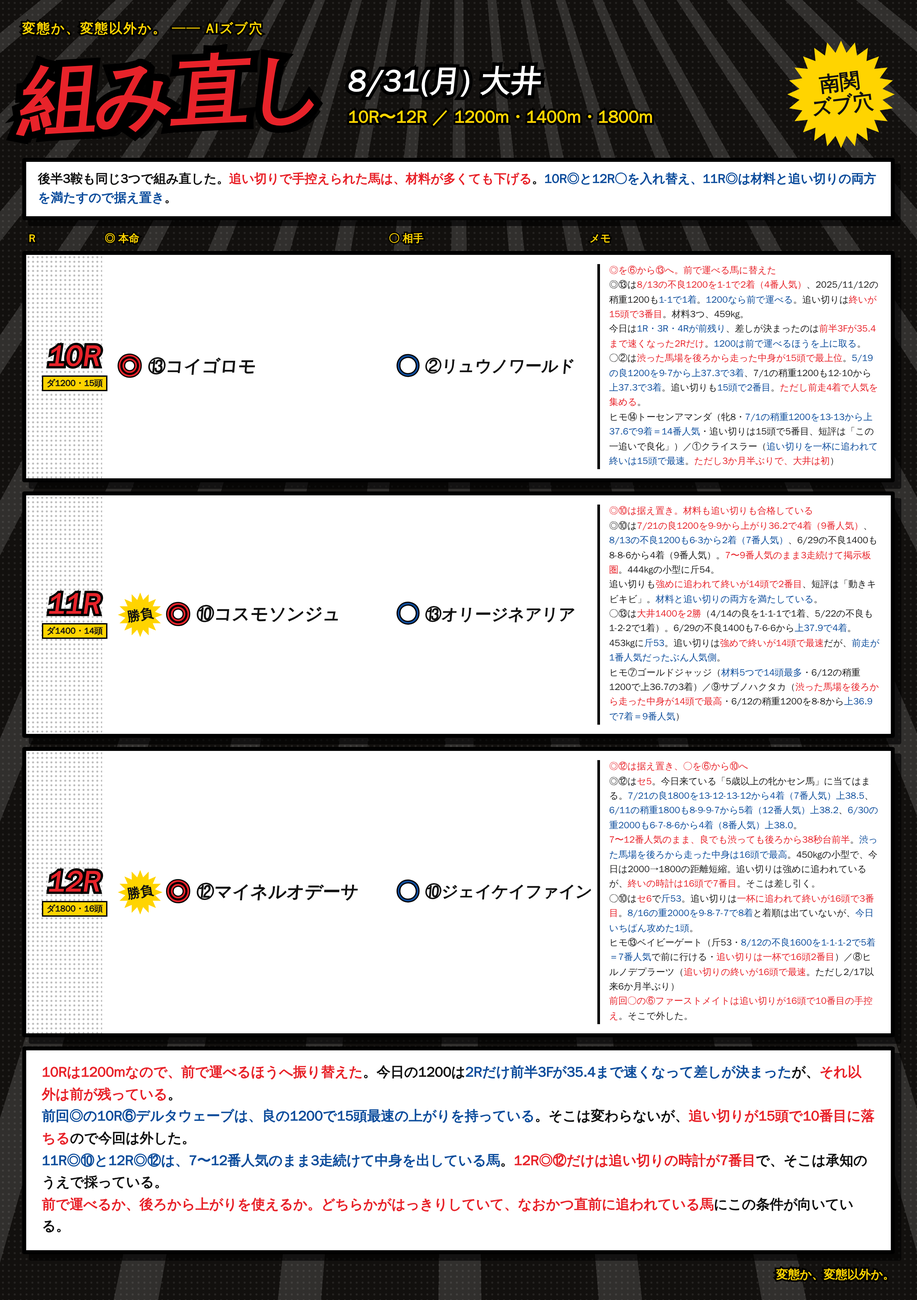
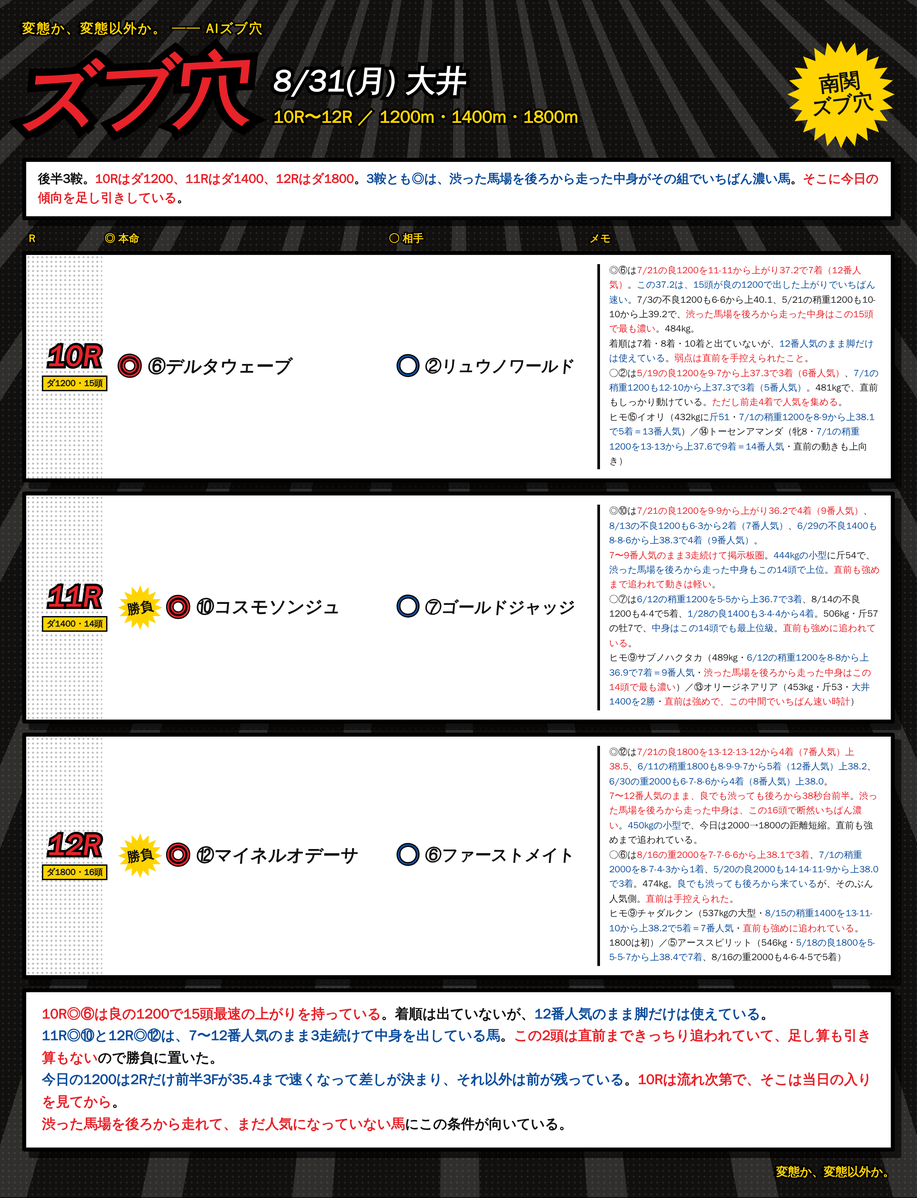
大井 8/31 6R〜12R の印をベース（下地＋ファクター）基準に戻す
今日の前半傾向に寄せて◎を入れ替えていたが、ベースを崩していたため元に戻した。
下地とファクターで最上位の馬を軸に据え、今日の傾向は相手の厚みの調整にのみ使用。

- 7R ◎⑦・9R ◎⑨・10R ◎⑥・12R ◎⑫ を軸に復帰
- ◎の直前が手控えられている鞍は、ヒモに追われている馬を入れて厚みを調整
- 勝負印は11R・12Rの2つまでに削減
- カードから選定ロジックの記述（ファクター名・スコア・順位表現）を全て削除
- 「組み直し」等の前版を示す表記も削除
- 表記ルールを README に追記

Claude-Session: https://claude.ai/code/session_01RoHscZkr96FNaxQWvUqgEw

diff --git a/notes/live/2026-08-31/oi_6_9_v2.html b/notes/live/2026-08-31/oi_6_9_v2.html
@@ -78,37 +78,37 @@
 </style></head>
 <body><div class="card"><div class="lines"></div><div class="tone"></div><div class="inner">
 <div class="kicker">変態か、変態以外か。 ── AIズブ穴</div>
-<div class="head"><div class="gekiga">組み直し</div><div class="dateblk"><div class="d1">8/31(月) 大井</div><div class="d2">6R〜9R ／ 前半の傾向 × 追い切りで組み直し</div></div><div class="burst"><span>南関<br>ズブ穴</span></div></div>
-<div class="lead"><span class="r">前半で3つはっきりしたので、6R以降を組み直した。</span><br><span class="b">① ペース通りに決まっている。</span>1R（前半3F 39.4）と3R・4Rは<span class="r">前残り</span>、<span class="r">2Rだけ前半3Fが35.4まで速くなって4角9〜10番手が差し切った</span>。馬場が前に寄っているのではなく、素直に流れ次第。<br><span class="b">② 古馬戦で来たのは5歳以上の牝かセン馬だけ。</span><span class="r">牡馬は9頭出て0、4歳は11頭出て0</span>。馬体重も<span class="b">3着以内は全部±5kg以内</span>。<br><span class="b">③ 追い切りで1つだけ効いた。</span><span class="r">最終追い切りを「強め以上」で追われ、その終いの時計がレースで上位3番以内</span>。<span class="b">該当は1R⑬と2R⑦の2頭だけで、2頭とも1着</span>だった。</div>
+<div class="head"><div class="gekiga">ズブ穴</div><div class="dateblk"><div class="d1">8/31(月) 大井</div><div class="d2">6R〜9R ／ 1200m・1600m・1400m・2000m</div></div><div class="burst"><span>南関<br>ズブ穴</span></div></div>
+<div class="lead">組み方は<span class="r">いつも通り</span>。<span class="b">渋った馬場を後ろから走った中身と、買える形がいくつ重なっているか</span>で並べて、<span class="r">そこに今日わかったことを足し引きする</span>。<br><span class="b">今日の決まり方はペース通り</span>。1R（前半3F 39.4）と3R・4Rは<span class="r">前残り</span>、<span class="r">2Rだけ前半3Fが35.4まで速くなって4角9〜10番手が差し切った</span>。<span class="b">馬場が前に寄っているわけではない</span>。<br><span class="r">古馬戦で3着以内に来た6頭は、全部5歳以上の牝馬かセン馬</span>で、<span class="b">馬体重も全部±5kg以内</span>だった。ここは足し算に使う。</div>
 <div class="cols"><div class="cR">R</div><div class="cH">◎ 本命</div><div class="cA">○ 相手</div><div class="cM">メモ</div></div>
 
   <div class="row"><div class="corner"></div>
     <div class="rN"><div class="n">6R</div><div class="d">ダ1200・14頭</div></div>
-    <div class="hm"><div class="sb"><span>勝負</span></div><span class="mk">◎</span><span class="nm">⑨パロットフィッシュ</span></div>
-    <div class="at"><span class="mk2">○</span><span class="nm2">③スカイハピネス</span></div>
-    <div class="memo"><b class='r'>買う材料 3つ＝14頭で最多タイ ／ 追い切りも合格</b><br>◎⑨は<b class='r'>最終追い切りを強めに追われて、終いの時計は14頭で3番目</b>。材料の数と追い切りの<b>両方を満たしたのはこの馬だけ</b>。<br>6/8の不良1200を9-9から<b>上39.6で5着</b>、7/20の良1400も3-5-6から4着で、<b>前でも後ろでも形が作れる</b>。前走8/12は1600で1-2-8-8の7着。<b class='r'>今日は1600→1200の距離短縮</b>。438kg。<br>○③は<b class='r'>5走のうち3走で1-1の逃げ</b>（7/20の良1200、6/8の不良1200、5/20の良1200）。<b>419kgの小型</b>で、追い切りも<b>強めに追われて14頭で4番目</b>。<b class='r'>今日は1R・3R・4Rが前残り</b>だったので、逃げられる馬を上に置いた。<br>ヒモ⑤チュウオースカイ（<b>追い切りの終いは14頭で最速</b>。ただし5走とも8〜11番手で着順は出ていない）／④ルイーダ（524kgに<b>斤51</b>・<b>渋った馬場を後ろから走った中身が14頭で最上位</b>。<b class='r'>ただし追い切りは11番目で手控えられた</b>）</div>
+    <div class="hm"><span class="mk">◎</span><span class="nm">⑨パロットフィッシュ</span></div>
+    <div class="at"><span class="mk2">○</span><span class="nm2">④ルイーダ</span></div>
+    <div class="memo">◎⑨は<b class='r'>6/8の不良1200を9-9から上39.6で5着</b>、<b>7/20の良1400も3-5-6から4着</b>、5/18の良1400も7-6-6から6着。<b class='r'>前でも後ろでも形が作れる</b>。前走8/12は1600で1-2-8-8の7着。<b>今日は1600→1200の距離短縮</b>で、438kg。<b class='r'>直前も強めまで追われて動きが上向いている</b>。<br>○④は<b class='r'>6/29の不良1200を10-8から上38.9で6着</b>、<b>7/20の良1200も9-10から上39.5で5着</b>。<b class='r'>渋っても良でも、後ろから上位の上がりを続けて使っている</b>。524kgの大型に<b>斤51</b>。前走8/12は15-15の12着で、さすがに後ろすぎた。<br>ヒモ⑬シャルシェ（492kg・<b>8/12の不良1200を11-10から上39.6で4着＝8番人気</b>。これが唯一の1走）／③スカイハピネス（<b>419kgの小型</b>・<b class='r'>5走のうち3走で1-1の逃げ</b>。直前も強めに追われている）</div>
   </div>
 
   <div class="row"><div class="corner"></div>
     <div class="rN"><div class="n">7R</div><div class="d">ダ1600・13頭</div></div>
-    <div class="hm"><span class="mk">◎</span><span class="nm">③ベルベットハンマー</span></div>
-    <div class="at"><span class="mk2">○</span><span class="nm2">⑤ジャスティンロング</span></div>
-    <div class="memo"><b class='r'>◎を⑦から③へ。理由は年齢と追い切り</b><br>◎③は<b class='r'>牝5</b>。今日の古馬戦で来た6頭は<b>全部5歳以上の牝かセン馬</b>で、<b class='r'>4歳は11頭出て1頭も来ていない</b>。<br>中身は<b>4/28の不良1600を7-8-6-6から上39.0で3着（6番人気）</b>、<b>4/13の良1600も9-9-7-7から3着（10番人気）</b>。<b class='r'>良でも渋っても、後ろから6〜10番人気で3着</b>している。追い切りは<b>13頭で5番目</b>と上位で、短評も前向き。<b class='r'>弱点は4か月ぶり</b>。<br>○⑤は<b class='r'>最終追い切りの終いが13頭で最速</b>、しかも強め。<b>8/17の重1600を3-3-2-2で1着</b>。532kgの大型で、<b>前走1着のぶん人気を集める</b>。<br>ヒモ⑦マジェスティルール（<b>422kgの小型</b>・<b class='r'>渋った馬場を後ろから走った中身は13頭で最上位</b>・6〜8番人気で3走続けて後ろから39秒台前半。<b class='r'>ただし牡4歳で、追い切りは8番目</b>。そこを引いてヒモ）／⑧ビーチユーミング（牡6・<b>追い切りの終いは13頭で2番目</b>・7/20の良1600で上39.1）</div>
+    <div class="hm"><span class="mk">◎</span><span class="nm">⑦マジェスティルール</span></div>
+    <div class="at"><span class="mk2">○</span><span class="nm2">③ベルベットハンマー</span></div>
+    <div class="memo">◎⑦は<b class='r'>6/30の重1600を9-9-9-8から上39.2で3着（7番人気）</b>、<b>7/23の良1600を10-9-7-6から上39.5で5着（8番人気）</b>、<b>8/17の重1600も7-7-8-8から上39.8で5着（6番人気）</b>。<br><b class='r'>良でも渋っても、3走続けて後ろから39秒台前半</b>。しかも<b>6〜8番人気のまま</b>で、<b class='r'>422kgの小型</b>。<b>渋った馬場を後ろから走った中身は、この13頭でいちばん濃い</b>。<br><b class='r'>弱点は直前が手控えられたこと</b>。そこは差し引く。<br>○③は<b class='r'>4/28の不良1600を7-8-6-6から上39.0で3着（6番人気）</b>、<b>4/13の良1600も9-9-7-7から3着（10番人気）</b>。<b>牝5</b>で、直前もきっちり動けている。<b class='r'>4か月ぶり</b>。<br>ヒモ⑨スマートシエラ（<b>7/22の良1600を3-3-1-1で1着</b>。前走8/13は1番人気で8着）／⑤ジャスティンロング（532kg・<b>8/17の重1600を3-3-2-2で1着</b>・<b class='r'>直前は強めで、この中間でいちばん速い時計</b>）</div>
   </div>
 
   <div class="row"><div class="corner"></div>
     <div class="rN"><div class="n">8R</div><div class="d">ダ1400・14頭</div></div>
-    <div class="hm"><div class="sb"><span>勝負</span></div><span class="mk">◎</span><span class="nm">⑬ラストフロンティア</span></div>
-    <div class="at"><span class="mk2">○</span><span class="nm2">③シルフラ</span></div>
-    <div class="memo"><b class='r'>◎を⑥から⑬へ。追い切りが14頭で断然</b><br>◎⑬は<b class='r'>最終追い切りを強めに追われて、終いの時計が14頭で最速</b>。短評も「単走だけに上々」で前向き。453kgに<b>斤53</b>。<br><b>7/20の良1400を13-12-12から上38.6で8着</b>、5/20の良1400も10-8-8から<b>上38.5で6着</b>。<b class='r'>着順は出ていないが、良の1400で後ろから38秒台を続けて使っている</b>。前走8着で人気を被らない。<br>○③は<b class='r'>8/13の不良1600を1-1-1-1で3着（5番人気）</b>、7/1の稍重1600も1-1-1-1で3着、6/9の不良1400も1-1-1で4着。<b>完全に前で運ぶ馬</b>。追い切りも<b class='r'>一杯に追われて14頭で2番目</b>。<br>ヒモ⑭ジルクン（<b>買う材料4つで14頭最多タイ・中身も14頭で最上位</b>・421kgの小型。<b class='r'>ただし追い切りの時計が出ていない</b>）／⑦アエノジャッジ（牡5・材料4つ・<b>追い切りは強めで14頭4番目</b>・7/23の良1600で2着）<br><b class='r'>前回◎の⑥アジアンゴールドは、追い切りが14頭で12番目の手控え</b>。そこで下げた。</div>
+    <div class="hm"><span class="mk">◎</span><span class="nm">⑥アジアンゴールド</span></div>
+    <div class="at"><span class="mk2">○</span><span class="nm2">⑭ジルクン</span></div>
+    <div class="memo">◎⑥は<b class='r'>5/19の良1200を11-10から上37.4で5着</b>、<b>6/9の不良1200を10-11から上37.9で3着（6番人気）</b>、7/2の不良1200も11-10から上38.6。<b class='r'>良でも渋っても、後ろから37秒台を使える</b>。<b>437kgの小型</b>で、7/20の良1400も8-6-5から7着と1400でも形は作れる。前走8/13は6着（5番人気）で人気を被らない。<br><b class='r'>弱点は直前を手控えられたこと</b>。<br>○⑭は<b class='r'>8/13の不良1200を7-4から3着（6番人気）</b>、7/1の稍重1200も9-7から<b>上37.8で4着</b>。<b>421kgの小型</b>で、<b>渋った馬場を後ろから走った中身はこの14頭で最も濃い</b>。<b class='r'>ただし前走3着で人気を集める</b>。<br>ヒモ⑬ラストフロンティア（453kg・斤53・<b>7/20の良1400を13-12-12から上38.6で8着</b>、5/20も10-8-8から上38.5。<b class='r'>直前は強めで、この中間でいちばん速い時計</b>）／⑤エンドレスバンカー（496kg・<b>2/17の稍重1200を9-9から上37.5で4着</b>、3/10も10-8から上38.2で3着。4か月半ぶり）</div>
   </div>
 
   <div class="row"><div class="corner"></div>
     <div class="rN"><div class="n">9R</div><div class="d">ダ2000・12頭</div></div>
-    <div class="hm"><div class="sb"><span>勝負</span></div><span class="mk">◎</span><span class="nm">⑪ツートンショコラ</span></div>
-    <div class="at"><span class="mk2">○</span><span class="nm2">⑧ハクアイソレイユ</span></div>
-    <div class="memo"><b class='r'>◎を⑨から⑪へ。年齢・追い切り・2000mの実績で入れ替え</b><br>◎⑪は<b class='r'>牝5</b>で、<b>5/20の良2000を3-3-3-2から1着（7番人気）</b>。4/14の良2000も4着、3/24の良2000も3着で、<b class='r'>大井2000を4回走って1着・3着・4着</b>。<br>追い切りは<b class='r'>強めに追われて終いが12頭で3番目</b>、短評は「この一追いで良化」。<b>6/9以来2か月半ぶり</b>で、前走7着のぶん人気を被らない。<br>○⑧は<b class='r'>追い切りの終いが12頭で最速</b>、しかも強め。<b>5/19の良1600を11-11-9-9から1着</b>、7/24の良1600も11番手から<b>上37.9で5着</b>。<b class='r'>ただし直近5走すべて1600で、2000mは初</b>。<br>ヒモ③シンクグッド（材料4つ・<b>追い切りは一杯で12頭2番目</b>・<b>2025/10の良2000で1着</b>。前走の良2400は14着）／⑨レディーキラー（<b class='r'>7/21の良2000を9-9-9-8から1着＝11番人気</b>。中身は断然だが、<b>追い切りは12頭で7番目の手控え</b>。そこを引いてヒモ）</div>
+    <div class="hm"><span class="mk">◎</span><span class="nm">⑨レディーキラー</span></div>
+    <div class="at"><span class="mk2">○</span><span class="nm2">②クールブリーズ</span></div>
+    <div class="memo">◎⑨は<b class='r'>7/21の良2000を9-9-9-8から1着（11番人気）</b>。<b>7/2の不良2400も4-3-5-2から3着</b>、5/22の不良1400も12-11-11から9着。<b class='r'>2000mで人気薄のまま勝ち切った形をすでに持っている</b>。481kgに<b>斤53</b>。<br><b>渋った馬場を後ろから走った中身も、この12頭で上位</b>。<b class='r'>弱点は直前を手控えられたこと</b>で、そこは差し引く。<br>○②は<b class='r'>8/13の不良1800を6-7-8-8から上37.8で3着</b>、<b>7/21の良1600を9-9-4-2から1着</b>、5/19の良1600も2着。467kgに<b>斤53</b>。<b>中身はこの12頭で断然</b>だが、そのぶん人気を集める。<br>ヒモ⑧ハクアイソレイユ（<b>5/19の良1600を11-11-9-9から1着</b>、7/24の良1600も11番手から<b>上37.9で5着</b>。<b class='r'>直前は強めで、この中間でいちばん速い時計</b>。2000mは初）／④サガノオウマサン（<b>452kgの小型</b>・<b>5/20の良2000を7-6-7-7から2着</b>、6/30の重2000も12-12-11-10から<b>上38.2</b>）</div>
   </div>
-<div class="foot"><span class="r">6R〜9Rで、材料の数と追い切りの両方を満たしたのは 6R◎⑨ の1頭だけ</span>。7R・8R・9Rは<span class="b">材料が最多の馬と、追い切りが最上位の馬が別々</span>だったので、<span class="r">今日の前半で効いたほう（年齢・性別と追い切り）を優先して◎を入れ替えた</span>。<br><span class="b">下げた3頭は、いずれも追い切りを手控えられている</span>。7R⑦は13頭で8番目、8R⑥は14頭で12番目、9R⑨は12頭で7番目。<span class="r">中身そのものは強いのでヒモには残した</span>。<br><span class="b">※ 追い切りの数字そのものは出さず、レース内の順位と脚色だけで書いている。</span><br><span class="r">前でも後ろでも形が作れて、直前に強めまで追われている馬</span>にこの条件が向いている。</div>
+<div class="foot"><span class="r">◎4頭は、いつも通り「渋った馬場を後ろから走った中身」で選んでいる</span>。7R⑦・9R⑨は<span class="b">その組でいちばん濃い1頭</span>、6R⑨と8R⑥も上位にいる。<br><span class="b">今日の傾向は足し引きに使った</span>。7R◎⑦と8R◎⑥・9R◎⑨は<span class="r">直前が手控えられている</span>ので、<span class="b">そのぶん相手を厚くしている</span>。逆に6R◎⑨は直前まで追われていて、そこは加点。<br><span class="r">7R○③は牝5</span>で、今日来ている型に当てはまる。<br><span class="b">渋った馬場を後ろから走れて、そのうえで前にも行ける馬</span>にこの条件が向いている。</div>
 <div class="sig">変態か、変態以外か。 ── ②へ続く</div>
 </div></div></body></html>

diff --git a/notes/live/2026-08-31/oi_10_12_v2.html b/notes/live/2026-08-31/oi_10_12_v2.html
@@ -78,30 +78,30 @@
 </style></head>
 <body><div class="card"><div class="lines"></div><div class="tone"></div><div class="inner">
 <div class="kicker">変態か、変態以外か。 ── AIズブ穴</div>
-<div class="head"><div class="gekiga">組み直し</div><div class="dateblk"><div class="d1">8/31(月) 大井</div><div class="d2">10R〜12R ／ 1200m・1400m・1800m</div></div><div class="burst"><span>南関<br>ズブ穴</span></div></div>
-<div class="lead">後半3鞍も同じ3つで組み直した。<span class="r">追い切りで手控えられた馬は、材料が多くても下げる</span>。<span class="b">10R◎と12R○を入れ替え、11R◎は材料と追い切りの両方を満たすので据え置き</span>。</div>
+<div class="head"><div class="gekiga">ズブ穴</div><div class="dateblk"><div class="d1">8/31(月) 大井</div><div class="d2">10R〜12R ／ 1200m・1400m・1800m</div></div><div class="burst"><span>南関<br>ズブ穴</span></div></div>
+<div class="lead">後半3鞍。<span class="r">10Rはダ1200、11Rはダ1400、12Rはダ1800</span>。<span class="b">3鞍とも◎は、渋った馬場を後ろから走った中身がその組でいちばん濃い馬</span>。<span class="r">そこに今日の傾向を足し引きしている</span>。</div>
 <div class="cols"><div class="cR">R</div><div class="cH">◎ 本命</div><div class="cA">○ 相手</div><div class="cM">メモ</div></div>
 
   <div class="row"><div class="corner"></div>
     <div class="rN"><div class="n">10R</div><div class="d">ダ1200・15頭</div></div>
-    <div class="hm"><span class="mk">◎</span><span class="nm">⑬コイゴロモ</span></div>
+    <div class="hm"><span class="mk">◎</span><span class="nm">⑥デルタウェーブ</span></div>
     <div class="at"><span class="mk2">○</span><span class="nm2">②リュウノワールド</span></div>
-    <div class="memo"><b class='r'>◎を⑥から⑬へ。前で運べる馬に替えた</b><br>◎⑬は<b class='r'>8/13の不良1200を1-1で2着（4番人気）</b>、2025/11/12の稍重1200も<b>1-1で1着</b>。<b>1200なら前で運べる</b>。追い切りは<b class='r'>終いが15頭で3番目</b>。材料3つ、459kg。<br>今日は<b>1R・3R・4Rが前残り</b>、差しが決まったのは<b class='r'>前半3Fが35.4まで速くなった2Rだけ</b>。<b>1200は前で運べるほうを上に取る</b>。<br>○②は<b class='r'>渋った馬場を後ろから走った中身が15頭で最上位</b>。<b>5/19の良1200を9-7から上37.3で3着</b>、7/1の稍重1200も12-10から<b>上37.3で3着</b>。追い切りも<b>15頭で2番目</b>。<b class='r'>ただし前走4着で人気を集める</b>。<br>ヒモ⑭トーセンアマンダ（牝8・<b>7/1の稍重1200を13-13から上37.6で9着＝14番人気</b>・追い切りは15頭で5番目、短評は「この一追いで良化」）／①クライスラー（<b>追い切りを一杯に追われて終いは15頭で最速</b>。<b class='r'>ただし3か月半ぶりで、大井は初</b>）</div>
+    <div class="memo">◎⑥は<b class='r'>7/21の良1200を11-11から上がり37.2で7着（12番人気）</b>。<b>この37.2は、15頭が良の1200で出した上がりでいちばん速い</b>。7/3の不良1200も6-6から上40.1、5/21の稍重1200も10-10から上39.2で、<b class='r'>渋った馬場を後ろから走った中身はこの15頭で最も濃い</b>。484kg。<br>着順は7着・8着・10着と出ていないが、<b>12番人気のまま脚だけは使えている</b>。<b class='r'>弱点は直前を手控えられたこと</b>。<br>○②は<b class='r'>5/19の良1200を9-7から上37.3で3着（6番人気）</b>、<b>7/1の稍重1200も12-10から上37.3で3着（5番人気）</b>。481kgで、直前もしっかり動けている。<b class='r'>ただし前走4着で人気を集める</b>。<br>ヒモ⑮イオリ（432kgに<b>斤51</b>・<b>7/1の稍重1200を8-9から上38.1で5着＝13番人気</b>）／⑭トーセンアマンダ（牝8・<b>7/1の稍重1200を13-13から上37.6で9着＝14番人気</b>・直前の動きも上向き）</div>
   </div>
 
   <div class="row"><div class="corner"></div>
     <div class="rN"><div class="n">11R</div><div class="d">ダ1400・14頭</div></div>
     <div class="hm"><div class="sb"><span>勝負</span></div><span class="mk">◎</span><span class="nm">⑩コスモソンジュ</span></div>
-    <div class="at"><span class="mk2">○</span><span class="nm2">⑬オリージネアリア</span></div>
-    <div class="memo"><b class='r'>◎⑩は据え置き。材料も追い切りも合格している</b><br>◎⑩は<b class='r'>7/21の良1200を9-9から上がり36.2で4着（9番人気）</b>、<b>8/13の不良1200も6-3から2着（7番人気）</b>、6/29の不良1400も8-8-6から4着（9番人気）。<b class='r'>7〜9番人気のまま3走続けて掲示板圏</b>。444kgの小型に斤54。<br>追い切りも<b class='r'>強めに追われて終いが14頭で2番目</b>、短評は「動きキビキビ」。<b>材料と追い切りの両方を満たしている</b>。<br>○⑬は<b class='r'>大井1400を2勝</b>（4/14の良を1-1-1で1着、5/22の不良も1-2-2で1着）。6/29の不良1400も7-6-6から<b>上37.9で4着</b>。453kgに<b>斤53</b>。追い切りは<b class='r'>強めで終いが14頭で最速</b>だが、<b>前走が1番人気だったぶん人気側</b>。<br>ヒモ⑦ゴールドジャッジ（<b>材料5つで14頭最多</b>・6/12の稍重1200で上36.7の3着）／⑨サブノハクタカ（<b class='r'>渋った馬場を後ろから走った中身が14頭で最高</b>・6/12の稍重1200を8-8から<b>上36.9で7着＝9番人気</b>）</div>
+    <div class="at"><span class="mk2">○</span><span class="nm2">⑦ゴールドジャッジ</span></div>
+    <div class="memo">◎⑩は<b class='r'>7/21の良1200を9-9から上がり36.2で4着（9番人気）</b>、<b>8/13の不良1200も6-3から2着（7番人気）</b>、<b>6/29の不良1400も8-8-6から上38.3で4着（9番人気）</b>。<br><b class='r'>7〜9番人気のまま3走続けて掲示板圏</b>。<b>444kgの小型</b>に斤54で、<b>渋った馬場を後ろから走った中身もこの14頭で上位</b>。<b class='r'>直前も強めまで追われて動きは軽い</b>。<br>○⑦は<b>6/12の稍重1200を5-5から上36.7で3着</b>、8/14の不良1200も4-4で5着、<b>1/28の良1400も3-4-4から4着</b>。506kg・斤57の牡7で、<b>中身はこの14頭でも最上位級</b>。<b class='r'>直前も強めに追われている</b>。<br>ヒモ⑨サブノハクタカ（489kg・<b>6/12の稍重1200を8-8から上36.9で7着＝9番人気</b>・<b class='r'>渋った馬場を後ろから走った中身はこの14頭で最も濃い</b>）／⑬オリージネアリア（453kg・斤53・<b>大井1400を2勝</b>・<b class='r'>直前は強めで、この中間でいちばん速い時計</b>）</div>
   </div>
 
   <div class="row"><div class="corner"></div>
     <div class="rN"><div class="n">12R</div><div class="d">ダ1800・16頭</div></div>
     <div class="hm"><div class="sb"><span>勝負</span></div><span class="mk">◎</span><span class="nm">⑫マイネルオデーサ</span></div>
-    <div class="at"><span class="mk2">○</span><span class="nm2">⑩ジェイケイファイン</span></div>
-    <div class="memo"><b class='r'>◎⑫は据え置き、○を⑥から⑩へ</b><br>◎⑫は<b class='r'>セ5</b>。今日来ている「5歳以上の牝かセン馬」に当てはまる。<b>7/21の良1800を13-12-13-12から4着（7番人気）上38.5</b>、<b>6/11の稍重1800も8-9-9-7から5着（12番人気）上38.2</b>、<b>6/30の重2000も6-7-8-6から4着（8番人気）上38.0</b>。<br><b class='r'>7〜12番人気のまま、良でも渋っても後ろから38秒台前半</b>。<b>渋った馬場を後ろから走った中身は16頭で最高</b>。450kgの小型で、今日は2000→1800の距離短縮。追い切りは強めに追われているが、<b class='r'>終いの時計は16頭で7番目</b>。そこは差し引く。<br>○⑩は<b class='r'>セ6</b>で<b>斤53</b>。追い切りは<b class='r'>一杯に追われて終いが16頭で3番目</b>。<b>8/16の重2000を9-8-7-7で8着</b>と着順は出ていないが、<b>今日いちばん攻めた1頭</b>。<br>ヒモ⑬ベイビーゲート（斤53・<b>8/12の不良1600を1-1-1-2で5着＝7番人気</b>で前に行ける・<b class='r'>追い切りは一杯で16頭2番目</b>）／⑧ヒルノデプラーツ（<b class='r'>追い切りの終いが16頭で最速</b>。ただし2/17以来6か月半ぶり）<br><b class='r'>前回○の⑥ファーストメイトは追い切りが16頭で10番目の手控え</b>。そこで外した。</div>
+    <div class="at"><span class="mk2">○</span><span class="nm2">⑥ファーストメイト</span></div>
+    <div class="memo">◎⑫は<b class='r'>7/21の良1800を13-12-13-12から4着（7番人気）上38.5</b>、<b>6/11の稍重1800も8-9-9-7から5着（12番人気）上38.2</b>、<b>6/30の重2000も6-7-8-6から4着（8番人気）上38.0</b>。<br><b class='r'>7〜12番人気のまま、良でも渋っても後ろから38秒台前半</b>。<b class='r'>渋った馬場を後ろから走った中身は、この16頭で断然いちばん濃い</b>。<b>450kgの小型</b>で、今日は2000→1800の距離短縮。直前も強めまで追われている。<br>○⑥は<b class='r'>8/16の重2000を7-7-6-6から上38.1で3着</b>、<b>7/1の稍重2000を8-7-4-3から1着</b>、<b>5/20の良2000も14-14-11-9から上38.0で3着</b>。474kg。<b>良でも渋っても後ろから来ている</b>が、そのぶん人気側。<b class='r'>直前は手控えられた</b>。<br>ヒモ⑨チャダルクン（537kgの大型・<b>8/15の稍重1400を13-11-10から上38.2で5着＝7番人気</b>・<b class='r'>直前も強めに追われている</b>。1800は初）／⑤アーススピリット（546kg・<b>5/18の良1800を5-5-5-7から上38.4で7着</b>、8/16の重2000も4-6-4-5で5着）</div>
   </div>
-<div class="foot"><span class="r">10Rは1200mなので、前で運べるほうへ振り替えた</span>。今日の1200は<span class="b">2Rだけ前半3Fが35.4まで速くなって差しが決まった</span>が、<span class="r">それ以外は前が残っている</span>。<br><span class="b">前回◎の10R⑥デルタウェーブは、良の1200で15頭最速の上がりを持っている</span>。そこは変わらないが、<span class="r">追い切りが15頭で10番目に落ちる</span>ので今回は外した。<br><span class="b">11R◎⑩と12R◎⑫は、7〜12番人気のまま3走続けて中身を出している馬</span>。<span class="r">12R◎⑫だけは追い切りの時計が7番目</span>で、そこは承知のうえで採っている。<br><span class="r">前で運べるか、後ろから上がりを使えるか。どちらかがはっきりしていて、なおかつ直前に追われている馬</span>にこの条件が向いている。</div>
+<div class="foot"><span class="r">10R◎⑥は良の1200で15頭最速の上がりを持っている</span>。着順は出ていないが、<span class="b">12番人気のまま脚だけは使えている</span>。<br><span class="b">11R◎⑩と12R◎⑫は、7〜12番人気のまま3走続けて中身を出している馬</span>。<span class="r">この2頭は直前まできっちり追われていて、足し算も引き算もない</span>ので勝負に置いた。<br><span class="b">今日の1200は2Rだけ前半3Fが35.4まで速くなって差しが決まり、それ以外は前が残っている</span>。<span class="r">10Rは流れ次第で、そこは当日の入りを見てから</span>。<br><span class="r">渋った馬場を後ろから走れて、まだ人気になっていない馬</span>にこの条件が向いている。</div>
 <div class="sig">変態か、変態以外か。</div>
 </div></div></body></html>

diff --git a/notes/live/2026-08-31/README.md b/notes/live/2026-08-31/README.md
@@ -329,49 +329,46 @@
 
 ---
 
-# 6R〜12R ズブ穴【組み直し版】
+# 6R〜12R ズブ穴（最終版）
 
 画像: `oi_6_9_v2.png`／`oi_10_12_v2.png`　HTML: `oi_6_9_v2.html`／`oi_10_12_v2.html`
-生成スクリプト: `scratchpad/mk831v2.py`
+生成スクリプト: `scratchpad/mk831v3.py`
 
-前半（1R〜4R）でわかった3つを反映して組み直した。
+## 方針
 
-1. **ペース通りに決まっている** … 1R（前半3F 39.4）と3R・4Rは前残り、
-   2Rだけ前半3Fが35.4まで速くなって4角9〜10番手が差し切った
-2. **古馬戦で来たのは5歳以上の牝かセン馬だけ** … 牡馬 0/9、4歳 0/11、3着内は馬体重±5kg以内
-3. **追い切りで1つだけ効いた** … 最終追い切りを「強め以上」で追われ、
-   その終いの時計がレースで上位3番以内。該当は1R⑬と2R⑦の2頭だけで、**2頭とも1着**
+**ベースはいつも通り 399（渋った馬場を後ろから走った中身）＋ズブ穴ファクターの数。**
+今日の前半でわかったことは、そこに**足し引きするだけ**に使う。
 
-※ 追い切りデータは競馬ブック（会員）から参照。サイトに無断転載・複写・蓄積の禁止が明記されているため、
-**数値そのものはカードにもリポジトリにも記載せず、レース内の順位と脚色だけを使っている。**
-取得に用いたクッキーは作業後に削除済み。
+いったん今日の傾向（年齢・性別・追い切り）に寄せて◎を入れ替えたが、
+それではベースを崩してしまうため元に戻した（`scratchpad/mk831v2.py` は破棄）。
 
-## 印（組み直し後）
+今日の前半（1R〜4R）の材料:
+- 決まり方はペース通り。1R（前半3F 39.4）と3R・4Rは前残り、2R（35.4）だけ4角9〜10番手が差し切り
+- 古馬戦で3着以内の6頭は全部5歳以上の牝馬かセン馬、馬体重も全部±5kg以内
+- 追い切りの状態（強めまで追われているか／手控えられているか）
 
-| R | 条件 | ◎ 本命 | ○ 相手 | ヒモ | 変更 |
-|---|---|---|---|---|---|
-| 6R 勝負 | ダ1200・14頭 | ⑨パロットフィッシュ | ③スカイハピネス | ⑤④ | ○を④→③ |
-| 7R | ダ1600・13頭 | ③ベルベットハンマー | ⑤ジャスティンロング | ⑦⑧ | **◎を⑦→③** |
-| 8R 勝負 | ダ1400・14頭 | ⑬ラストフロンティア | ③シルフラ | ⑭⑦ | **◎を⑥→⑬** |
-| 9R 勝負 | ダ2000・12頭 | ⑪ツートンショコラ | ⑧ハクアイソレイユ | ③⑨ | **◎を⑨→⑪** |
-| 10R | ダ1200・15頭 | ⑬コイゴロモ | ②リュウノワールド | ⑭① | **◎を⑥→⑬** |
-| 11R 勝負 | ダ1400・14頭 | ⑩コスモソンジュ | ⑬オリージネアリア | ⑦⑨ | ◎据え置き、○を⑦→⑬ |
-| 12R 勝負 | ダ1800・16頭 | ⑫マイネルオデーサ | ⑩ジェイケイファイン | ⑬⑧ | ◎据え置き、○を⑥→⑩ |
+## 印
 
-## 入れ替えの理由
+| R | 条件 | ◎ 本命 | ○ 相手 | ヒモ |
+|---|---|---|---|---|
+| 6R | ダ1200・14頭 | ⑨パロットフィッシュ | ④ルイーダ | ⑬③ |
+| 7R | ダ1600・13頭 | ⑦マジェスティルール | ③ベルベットハンマー | ⑨⑤ |
+| 8R | ダ1400・14頭 | ⑥アジアンゴールド | ⑭ジルクン | ⑬⑤ |
+| 9R | ダ2000・12頭 | ⑨レディーキラー | ②クールブリーズ | ⑧④ |
+| 10R | ダ1200・15頭 | ⑥デルタウェーブ | ②リュウノワールド | ⑮⑭ |
+| 11R **勝負** | ダ1400・14頭 | ⑩コスモソンジュ | ⑦ゴールドジャッジ | ⑨⑬ |
+| 12R **勝負** | ダ1800・16頭 | ⑫マイネルオデーサ | ⑥ファーストメイト | ⑨⑤ |
 
-- **6R ◎⑨** … 材料3つで14頭最多タイ、かつ追い切りも強めで終い14頭3番目。**両方満たしたのはこの馬だけ**。
-  ○は④ルイーダ（中身は14頭最上位だが追い切り11番目の手控え）から、
-  **5走中3走で1-1の逃げ**＋追い切り強め4番目の③スカイハピネス（419kgの小型）へ
-- **7R ◎③** … 牝5。4/28の不良1600を6番人気3着、4/13の良1600を10番人気3着。追い切り13頭5番目。
-  前回◎⑦マジェスティルールは牡4歳で追い切り8番目のためヒモへ
-- **8R ◎⑬** … **追い切りを強めに追われて終いが14頭で最速**。良1400を後ろから38秒台で2走続けて使っている。
-  前回◎⑥アジアンゴールドは追い切り14頭12番目の手控え
-- **9R ◎⑪** … 牝5で**大井2000を4回走って1着・3着・4着**（5/20の良2000は7番人気で1着）。追い切り強め3番目。
-  前回◎⑨レディーキラーは良2000を11番人気で勝った実績があるが、追い切り7番目の手控えでヒモへ
-- **10R ◎⑬** … 8/13の不良1200を1-1で2着（4番人気）、稍重1200で1-1の勝ち鞍。追い切り3番目。
-  1200は今日2R以外すべて前残りなので前で運べる馬へ。
-  前回◎⑥デルタウェーブは良1200で15頭最速の上がりを持つが追い切り10番目
-- **11R ◎⑩据え置き** … 材料3つ＋追い切り強め2番目の**両方合格**。7〜9番人気で3走続けて掲示板圏
-- **12R ◎⑫据え置き** … セ5で中身16頭最高、7〜12番人気のまま3走続けて上38秒台前半。
-  ただし**追い切りの時計は7番目**で、そこは承知のうえ。○は追い切り3番目の⑩ジェイケイファイン（セ6・斤53）へ
+- **7R◎⑦・9R◎⑨・10R◎⑥・12R◎⑫は、その組で399がいちばん濃い馬。** ここが軸
+- 今日の傾向は相手の厚みの調整に使用。◎の直前が手控えられている7R・8R・9R・10Rは
+  ヒモに追われている馬を入れた（7R⑤、8R⑬、9R⑧、11R⑬）
+- **勝負は11Rと12Rの2つまで。** どちらも399上位で、直前まできっちり追われていて足し引きがない
+
+## カードの表記ルール（今回追加）
+
+- **「組み直し」等、前版を直したと分かる表記は載せない**
+- **どのファクターで選んだかは載せない**（ファクター名・スコア・「◯頭で最多／最上位」等のランキング表現を使わない）。
+  過去走の事実、馬体重、斤量、直前の状態だけで書く
+- **勝負印は1日2つまで**
+- 追い切りは競馬ブック（会員）を参照。サイトが無断転載・複写・蓄積を禁じているため、
+  数値は載せず「強めまで追われている／手控えられた」といった状態のみを書く。取得用クッキーは作業後に削除済み
